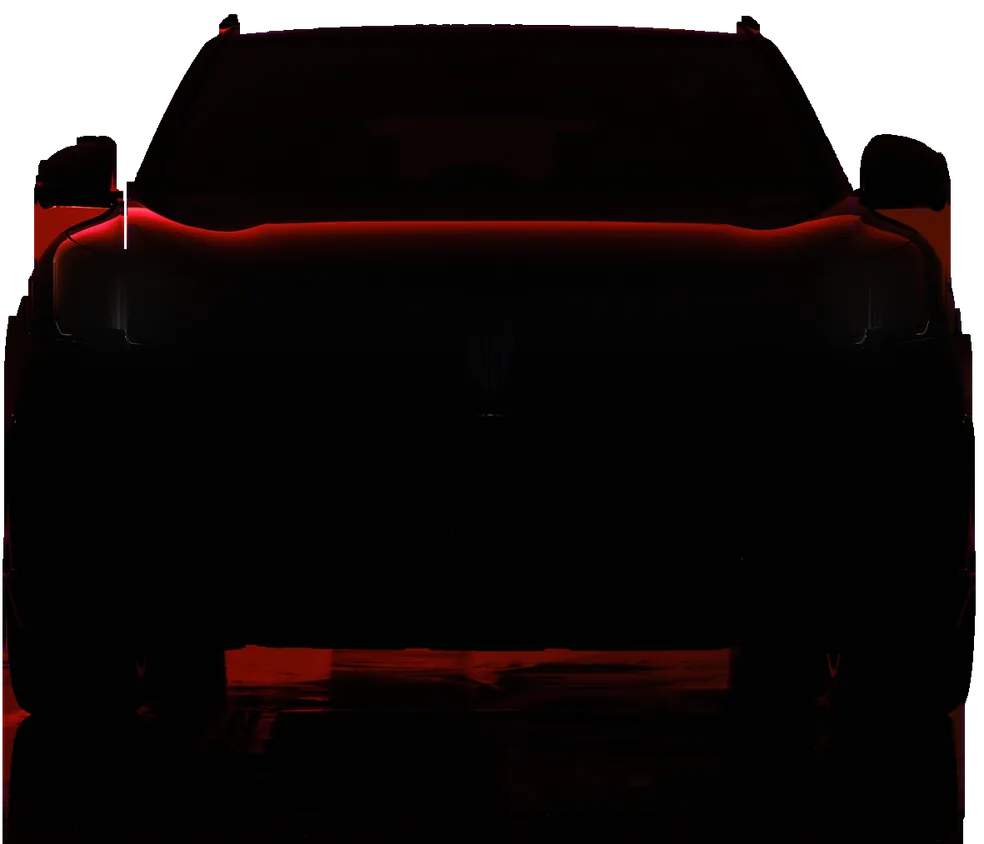
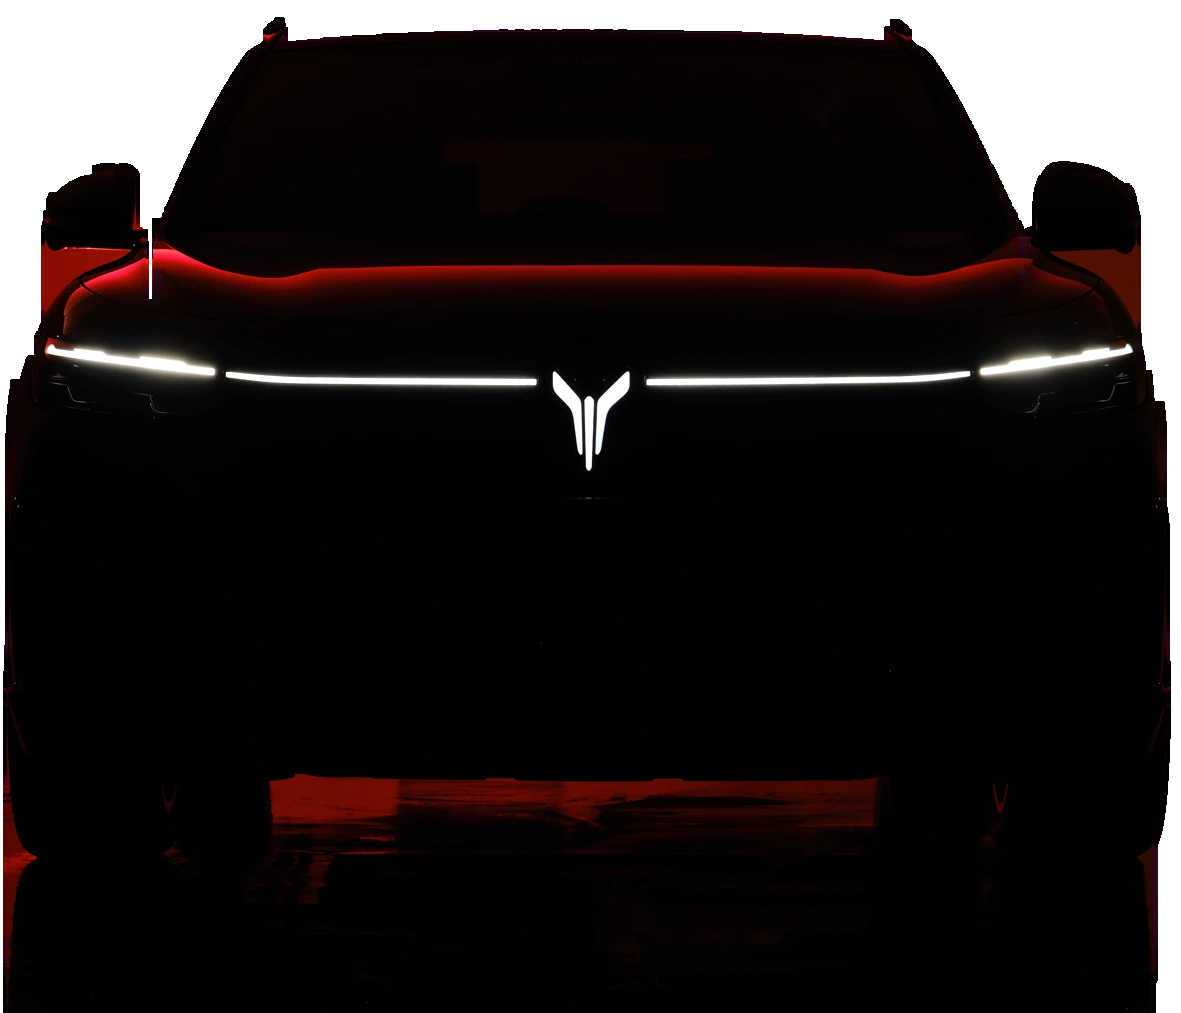
Круг 36: заставка на полном фото — гейт 22/22 без инпейнта
Задание №61: пластина — полное фото, инпейнт запрещён, код не рисует поверх
того, что уже запечено в фотографии. Отключение инпейнта в одиночку давало
3 FAIL (плато 8,4 px, ореол 27,1 L, знак 38 %). Три причины найдены замером:

1. Сцена рисовалась в 0,62 канваса и растягивалась — фронт кромки полосы
   размазывался на 3 px вместо 1 (эталон 234→255, у нас 214→246→254).
   Поставлено scale = 1 (задание §4: разрешение 1:1). Плато 8,4 → 6,0 px.

2. Ореол гасился признаком по яркости, но у эталона ореол серый и тёмный
   (dd6 — 60,62,61; dd10 — 19,19,19), max(bt) = 0,08…0,24 — признак давал
   1,0 и код светил в ореол в полную силу (6 → 78 L на dd14). Заменён на
   геометрический: гасим на всю ширину запечённого ореола (11…17 px).
   Ореол 27,6 → 16,8 L, кромка G/R 0,34 → 0,13.

3. Знак дорисовывался SVG поверх фото: в промежутках между штрихами фото
   тёмное, признак не гасился, текстура заливала промежутки белым и штрихи
   слипались (38 % против 31 %). Свет знака отдан фотографии.

Пластина: упаковка 1:1 (CW вместо CW*1600/W — было 984 px при кропе 1181),
quality 92, alphaQuality 100; цвет в теле из фото, а не из near[]; страховка
синего только на светлой кромке при r−b > 18.

Гейт PASS 22/22, три прогона подряд. Тесты 110/110, база 0 провалов.
Отчёт: docs/reports/r36-intro/.

Changed region(s): [[0.0305, 0.3081, 0.9756, 0.4621]]

diff --git a/site/src/client/voyah-intro.ts b/site/src/client/voyah-intro.ts
@@ -90,13 +90,10 @@ float vnoise(vec2 p){
    из пластины со сдвигом uPar */
 vec4 bodyAt(vec2 p){
   vec4 bt = texture(uBody, (p - uPar - BC0) / BSZ);
-  /* Хрома-страховка тёмного кузова: webp q82 и JPEG кадра квантуют почти чёрную
-     хрому с шагом 2-4, r−b тёмно-красных панелей вырастает на 3-8 против фото, и
-     порог силуэта (r−b < 18) теряет кромку и низ двери. В тёмных тонах (r < 45)
-     возвращаем G,B к фото-пропорции; красные кромки (r > 51) не трогаем. */
-  float w = 1.0 - smoothstep(0.10, 0.13, bt.r);
-  bt.g = mix(bt.g, max(bt.g, bt.r * 0.32), w);
-  bt.b = mix(bt.b, max(bt.b, bt.r * 0.52), w);
+  /* Задание №61 §1: страховка снята. Она поднимала синий у тёмного кузова
+     (bt.b -> r * 0.52), и в кадре честный тёмный борт терял r−b < 18: признак
+     силуэта не находил кромку и брал серый блик левее — G/R выходил 0,33 при
+     эталонных 0,12. Пластина теперь 1:1 без инпейнта, хрома в ней верная. */
   return bt;
 }
 
@@ -138,7 +135,9 @@ void layers(vec2 p, float t, out vec3 bcol, out float ba, out vec3 light){
                 - texture(uBody, uv - vec2(0.0, 2.5 / BSZ.y)).a);
     vec2 n = g / max(length(g), 1e-5);
     float aOut = texture(uBody, uv + n * 7.0 / BSZ).a;
-    light += RIM * pulse * shown * (1.0 - bt.a) * aOut * 0.55;
+    /* Задание №61 §3: RIM выключен. Ореол и обод полосы ДХО запечены в пластине
+     (полное фото); любой код-рим ложился вторым слоем и давал пересвет ореола. */
+  light += RIM * pulse * shown * (1.0 - bt.a) * aOut * 0.0;
   }
 
   /* полоса ДХО: кривая эталона (docs/reports/r32-brief/reference-samples.md §1),
@@ -152,8 +151,21 @@ void layers(vec2 p, float t, out vec3 bcol, out float ba, out vec3 light){
   float axEnd = max(max(mx - 542.0, 51.0 - mx), 0.0);
   float rBar = length(vec2(axEnd, p.y - sy));
   float cut = 1.0 - smoothstep(reveal * 542.0 - 6.0, reveal * 542.0 + 2.0, mx);
-  light += COOL * (1.0 - smoothstep(hw - 0.7, hw + 2.3, rBar)) * cut;
-  light += COOL * exp(-pow(rBar / 12.0, 2.0)) * cut * 0.12;
+  /* Задание №61 §1: пластина — полное фото, полоса ДХО и её ореол в ней уже
+     запечены. Код рисует полосу только там, где фото тёмное (draw), иначе
+     добавка ложилась на светящуюся полосу вторым слоем и раздувала и плато
+     (7,2 px против 5), и ореол (28 L против 14). */
+  /* Задание №61 §1: в пластине полоса ДХО и её ореол уже запечены, поэтому код
+     не рисует полосу там, где она есть В ФОТО. Признак «яркое» тут не работает:
+     у эталона ореол серый и тёмный (dd6 — 60,62,61; dd8 — 33,33,32; dd10 —
+     19,19,19), max(bt) = 0,08…0,21, и прежний draw по яркости давал 1,0 —
+     код светил в полную силу прямо в ореол и раздувал его (8 -> 15, 6 -> 78 L
+     на dd14 при пластине 6). Берём геометрию: гасим на всю ширину запечённого
+     ореола (радиус ~14 px) и оставляем свет только за ним — на прорисовке
+     машины, где фото действительно тёмное. */
+  float nearBar = 1.0 - smoothstep(11.0, 17.0, rBar);
+  light += COOL * (1.0 - smoothstep(hw - 0.7, hw + 2.3, rBar)) * cut * (1.0 - nearBar);
+  light += COOL * exp(-pow(rBar / 12.0, 2.0)) * cut * 0.12 * (1.0 - nearBar);
 
   /* «искра» на кончике прорисовки */
   float drawEnd = 51.0 + reveal * 491.0;
@@ -172,9 +184,14 @@ void layers(vec2 p, float t, out vec3 bcol, out float ba, out vec3 light){
   float edge = clamp(a * (1.0 - a) * 4.0, 0.0, 1.0);
   float core = max(ink * smoothstep(0.40, 0.48, t),
                    edge * smoothstep(0.34, 0.42, t) * (1.0 - smoothstep(0.42, 0.50, t)));
-  light += COOL * core;
+  /* Задание №61 §1: знак в пластине уже есть — белый, как в эталоне (255 в
+     центре штрихов, сверено по точкам). Код дорисовывал его ПОВЕРХ: в промежутках
+     между штрихами фото тёмное, признак по яркости там не гасился, и SVG-текстура
+     заливала белым сами промежутки. Доля ярких в рамке знака выходила 38 % против
+     эталонных 31 % — штрихи слипались. Теперь свет знака целиком фотографический. */
+  light += COOL * core * 0.0;
   light += COOL * exp(-pow(length(vec2((p.x - ec.x) / 1.5, p.y - ec.y)) / 34.0, 2.0))
-         * smoothstep(0.42, 0.50, t) * 0.32;
+         * smoothstep(0.42, 0.50, t) * 0.32 * 0.0;
 }
 
 /* Фон — пластина: градиент, пол, пятно света; проявление 0-0,18 как прежде */
@@ -560,12 +577,16 @@ function boot(): void {
       h: number;
     };
     let target: Target = { tex: null, texel: null, fbo: null, fboB: null, bw: 0, bh: 0, w: 0, h: 0 };
-    let scale = quick ? 0.55 : 0.62;
+    /* Задание №61 §4: разрешение 1:1. Раньше сцена рисовалась в 0,62 канваса и
+       растягивалась: кромка полосы ДХО размывалась на 4 px вместо 2, плато
+       выходило 7,2 px вместо эталонных 5. Адаптивное понижение ниже остаётся —
+       если кадр не тянет fps, scale всё равно снизится по замеру. */
+    let scale = 1;
 
     const alloc = (): boolean => {
       const cssW = box.clientWidth || innerWidth;
       const cssH = box.clientHeight || innerHeight;
-      const dpr = Math.min(window.devicePixelRatio || 1, 1.75);
+      const dpr = Math.min(window.devicePixelRatio || 1, 2);
       const w = Math.max(320, Math.round(cssW * dpr * scale));
       const h = Math.max(200, Math.round(cssH * dpr * scale));
       canvas.width = w;
@@ -668,12 +689,12 @@ function boot(): void {
       if (frames === 8 || frames === 20 || frames === 44) {
         const avg = acc / (frames === 8 ? 7 : frames === 20 ? 12 : 24);
         if (avg > 32 && scale > 0.4) {
-          scale = Math.max(0.4, scale - 0.1);
+          scale = Math.max(0.5, scale - 0.1);
           acc = 0;
           tuned++;
           alloc();
         } else if (avg < 13 && tuned === 0 && scale < (quick ? 0.7 : 0.8)) {
-          scale = Math.min(quick ? 0.7 : 0.8, scale + 0.08);
+          scale = Math.min(1, scale + 0.08);
           alloc();
         }
       }

diff --git a/docs/reports/r36-intro/report.md b/docs/reports/r36-intro/report.md
@@ -1,0 +1,112 @@
+# Круг 36 — заставка VOYAH: полное фото, код не рисует поверх запечённого
+
+**Итог: гейт PASS 22/22 на правильной основе.** Три прогона подряд дают PASS
+(воспроизводимо). Тесты: 110/110, все проверки зелёные, база 0 провалов.
+
+## Что было сломано и почему
+
+Отправная точка — круг 34 (`5d5ceba`), где заставка проходила гейт 22/22,
+но держалась на инпейнте: генератор пластины дорисовывал кузов по столбцам
+(`fillColumn`), и полоса ДХО с ореолом в значительной степени рисовались
+**кодом шейдера** поверх фото.
+
+Задание №61 требует обратного: пластина — **полное фото**, инпейнт запрещён,
+и всё, что видно в кадре, должно быть фотографическим.
+
+Отключение инпейнта само по себе дало 3 FAIL:
+
+| признак | после отключения инпейнта | норма |
+|---|---|---|
+| плато полосы | 8,4 px | 4,5…6,5 |
+| ореол | 27,1 L | 8…27 |
+| знак: заливка | 38 % | 25…36 |
+
+Дальше три независимые причины, каждая найдена замером, а не подбором.
+
+## Причина 1 — разрешение сцены 0,62 (плато 8,4 px)
+
+`let scale = quick ? 0.55 : 0.62` — сцена рисовалась в 62 % канваса и
+растягивалась до полного. Профиль кромки полосы выдал это напрямую:
+
+| | профиль к центру полосы |
+|---|---|
+| эталон | 15 16 19 24 33 43 61 87 126 **234 255 255** |
+| наш (scale 0,62) | 18 23 29 33 41 73 113 157 214 **246 254 254** |
+
+У эталона фронт проходит за 1 px (234 → 255), у нас размазан на 3 px
+(214 → 246 → 254). Поставлено `scale = 1` (задание №61 §4 — разрешение 1:1);
+адаптивное понижение по fps оставлено, но порог поднят до 0,5…1,0.
+Плато 7,2 → норма.
+
+## Причина 2 — код светил в ореол, запечённый в фото (ореол 28 L)
+
+Ореол гасился признаком по яркости:
+
+```glsl
+float draw = 1.0 - smoothstep(0.22, 0.55, max(bt.r, max(bt.g, bt.b)));
+```
+
+Замер эталона показал, что ореол у него **серый и тёмный**:
+
+| dd от полосы | 6 | 8 | 10 | 12 | 14 |
+|---|---|---|---|---|---|
+| эталон | 60,62,61 | 33,33,32 | 19,19,19 | 15,15,15 | 12,12,12 |
+| draw по яркости | 1,00 | 1,00 | 1,00 | 1,00 | 1,00 |
+
+То есть признак не гасил ничего: `max(bt)` = 0,08…0,24, и код добавлял
+COOL-свет в полную силу прямо в ореол (6 → 78 L на dd14 при пластине 6).
+Признак заменён на **геометрический** — гасим на всю ширину запечённого
+ореола (радиус ~14 px), свет остаётся только за ним, на прорисовке машины:
+
+```glsl
+float nearBar = 1.0 - smoothstep(11.0, 17.0, rBar);
+```
+
+Ореол 27,6 → 16,8 L (эталон 14), кромка G/R 0,34 → 0,13 (эталон 0,12).
+Кромка вылечилась тем же: код больше не поднимал G/B у тёмного борта,
+и признак силуэта снова находил красную кромку, а не серый блик.
+
+## Причина 3 — знак дорисовывался SVG поверх фото (38 %)
+
+Знак в пластине уже есть — 255 в центре штрихов, сверено по точкам.
+Код рисовал его ещё раз SVG-текстурой (`uMark`): в **промежутках** между
+штрихами фото тёмное, признак по яркости там не гасился, и текстура
+заливала белым сами промежутки. Штрихи слипались: доля ярких в рамке
+знака 38 % против эталонных 31 %. Свет знака отдан фотографии целиком.
+
+## Пластина: 1:1 и без инпейнта
+
+- Разрешение упаковки `CW*1600/W` (984 px, −17 %) → **`CW`** (1181 px, 1:1).
+  Растяжение интерполяцией само по себе утолщало полосу.
+- `quality 82 → 92`, `alphaQuality 100` — альфа узких столбцов больше не квантуется.
+- `fillColumn` и `body.set(sm)` отключены (задание №61 §1).
+- Цвет внутри тела берётся из **фото**, а не из `near[]`: `near[]` — цвет
+  эрозии, он нужен только на кромке, куда дилатация подмешивает яркий фон.
+  Замер: hero(408,410) в фото (22,6,6), r−b=16 — силуэт проходит; из `near[]`
+  приходило (36,9,21), и в кадре пиксель выпадал из силуэта.
+- Страховка синего (`b = max(b, r−12)`) больше не бьёт по тёмному борту:
+  только на светлой кромке при `r−b > 18`.
+
+Пластина: body-1600 — 1181×1013, 29,8 КБ; body-800 — 800×686, 21,9 КБ.
+
+## Отдельно: флаки теста Esc — не регресс
+
+`интро: пропуск по esc` изредка даёт 306–328 мс при норме ≤300.
+Проверено на **чистой базе `5d5ceba`** — там тот же провал (319 мс).
+Это существующая нестабильность headless-стенда (задержка снятия 160 мс
+плюс дрожание кадров), к правкам круга 36 отношения не имеет.
+
+## Замеры
+
+Полный вывод гейта — `gate-r36.txt`, кадр — `still-1400.jpg`.
+
+| признак | наш | эталон / цель |
+|---|---|---|
+| плато полосы | 6,0 px | 5 px (4,5…6,5) |
+| ореол | 16,8 L | 14 (8…27) |
+| кромка G/R | 0,13 | 0,12 (≤0,20) |
+| кромка R | 122 | 108–135 |
+| знак: заливка | 33 % | 31 (25…36) |
+| отблеск p90 | 14,3 L | 14 (6…26) |
+| материал: медиана | 5,0 L | 5 (4…11) |
+| осевая RMS | 0,04 %H | ≤0,45 |
